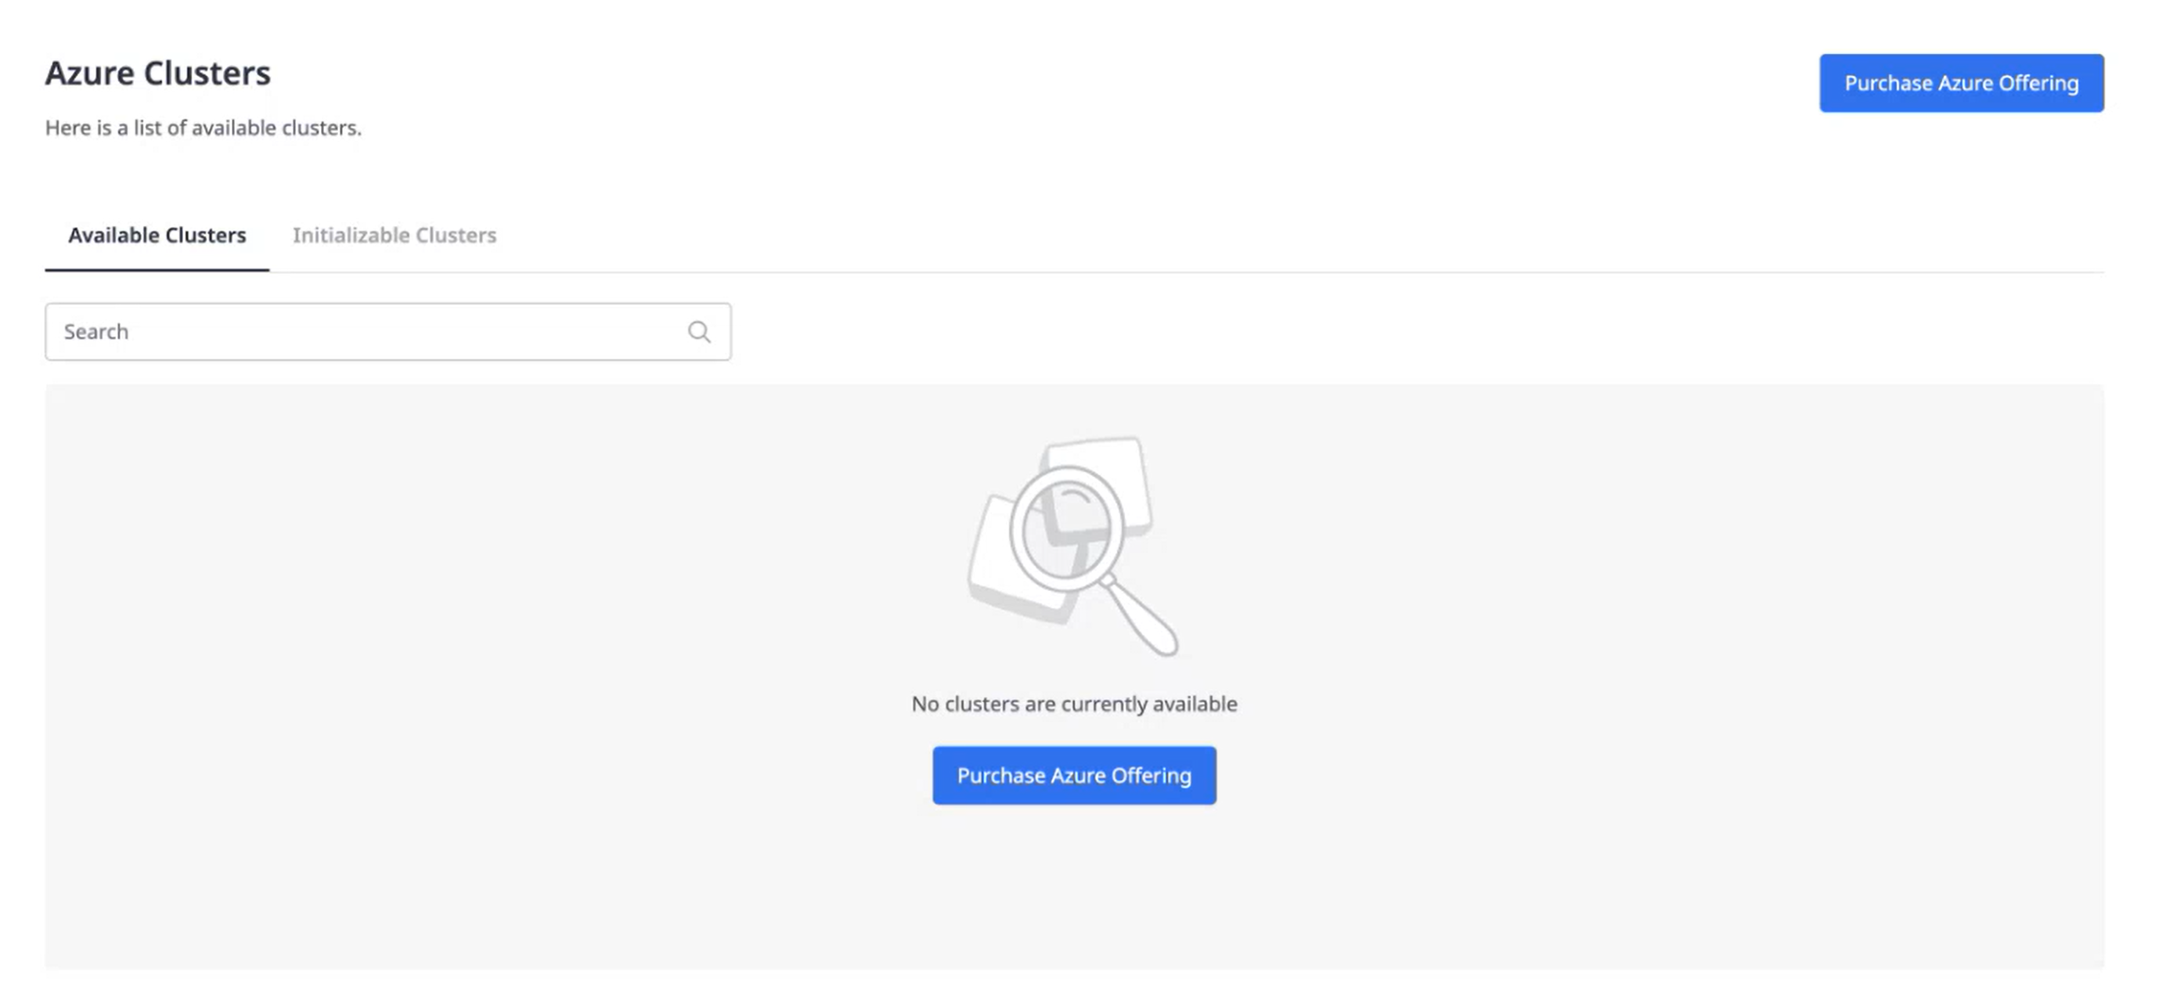
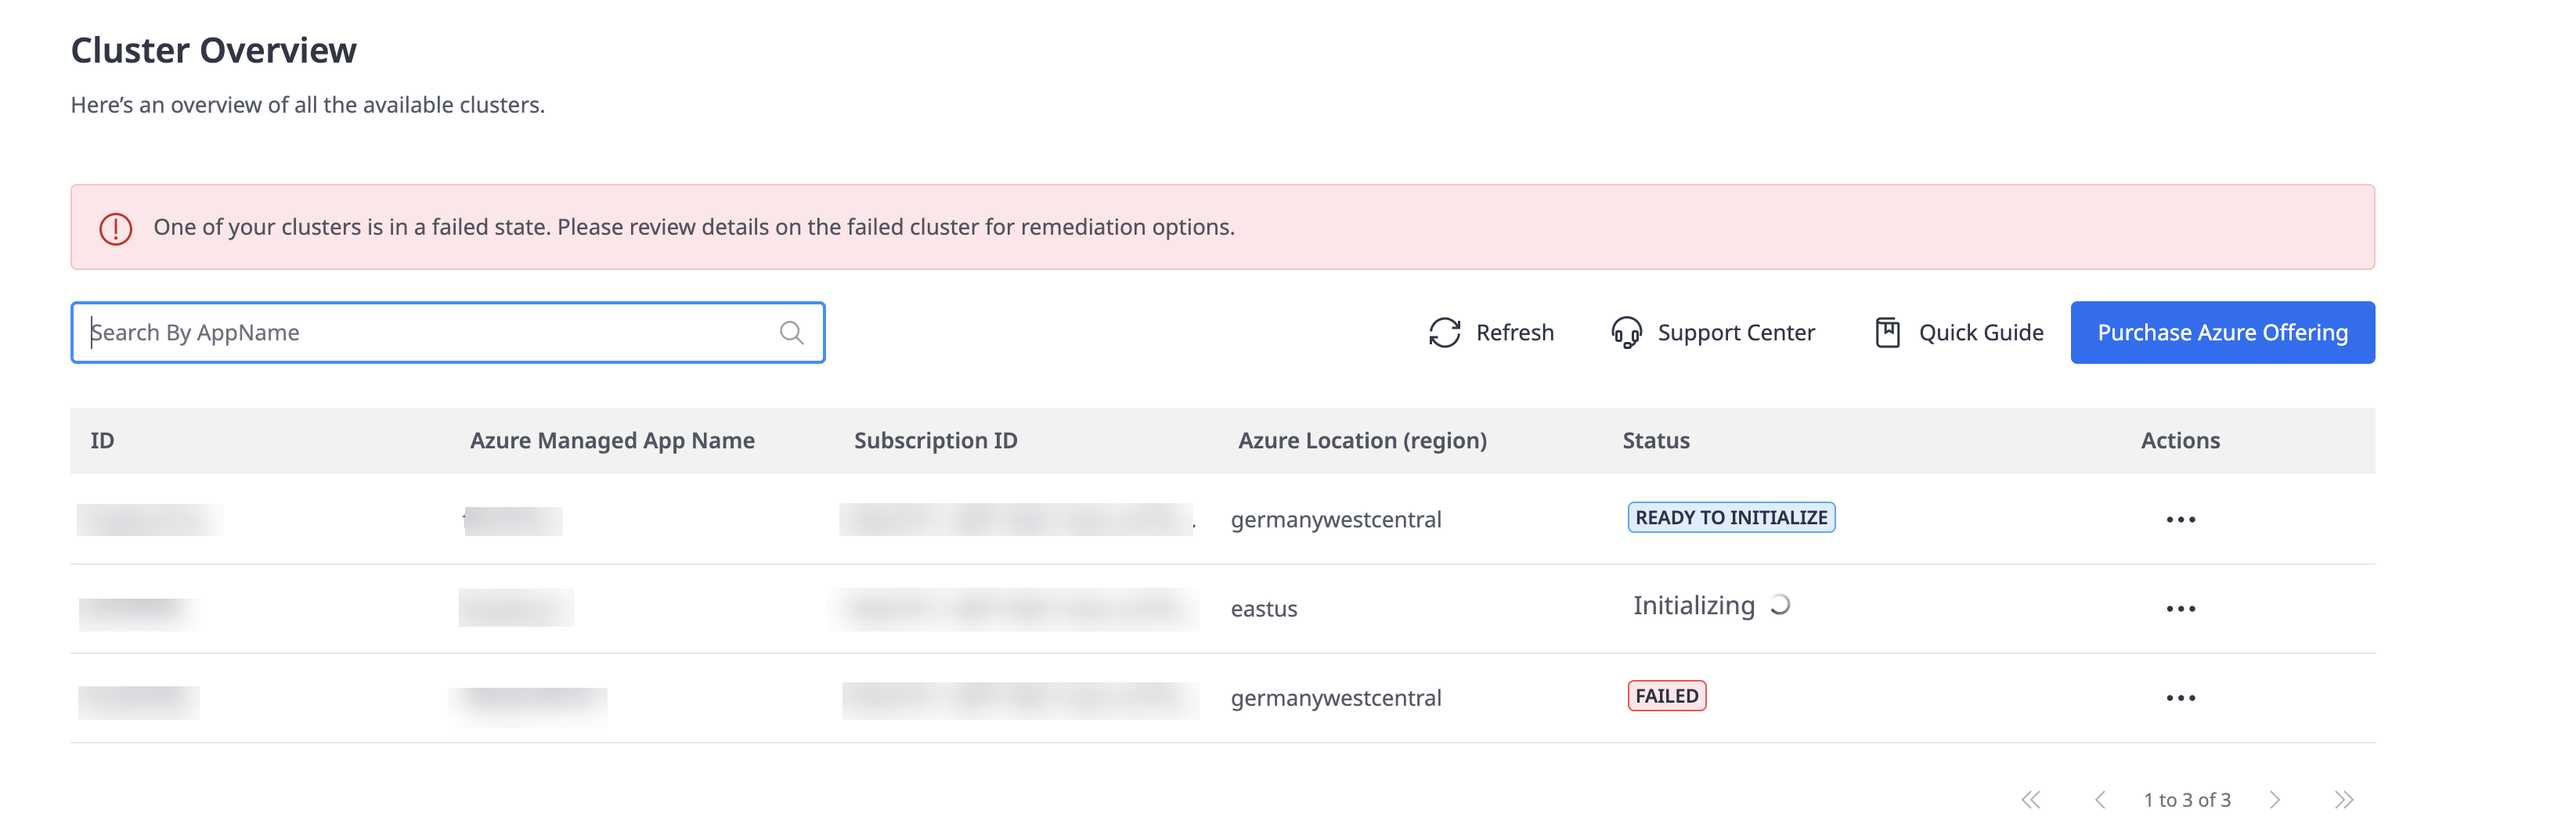
SME review

diff --git a/content/en/docs/deployment/mx-azure/mx-azure-installation.md b/content/en/docs/deployment/mx-azure/mx-azure-installation.md
@@ -17,6 +17,10 @@ Before starting the installation and implementation process, make sure that you 
 
 * Obtain and configure a Microsoft Azure account. For more information, refer to the the Microsoft Azure documentation.
 * Purchase the Mendix on Azure offering in the [Azure Marketplace](https://azuremarketplace.microsoft.com/).
+* Enable co-access permissions for the offering.
+
+{{< figure src="/attachments/deployment/mx-azure/coadmin-permission.png" class="no-border" >}}
+
 * Familiarize yourself with the [Private Cloud](https://docs.mendix.com/developerportal/deploy/private-cloud/) concepts.
 * Ensure that your Mendix Studio Pro is in version 10.10 or newer.
 * As an optional best practice, add multiple cluster manager to your clusters.
@@ -26,9 +30,9 @@ Before starting the installation and implementation process, make sure that you 
 To create a cluster for your Mendix on Azure app, perform the following steps:
 
 1. In the Mendix Portal, in Private Cloud Cluster Manager, click **Mendix on Azure**.
-2. Connect to your Azure account by clicking **Connect and Initialize**, and then logging in with the same account that you used to purchase the Mendix on Azure offering.
+2. Connect to your Azure account by clicking **Connect Azure Account**, and then logging in with the same account that you used to purchase the Mendix on Azure offering. If required, you can also purchase an Azure offering after you log in.
 
-    After you successfully connect the accounts, the Mendix Portal shows a list of available clusters (that is, any Azure clusters that you have already linked with Mendix) and initializable clusters (that is, any clusters that you have not yet linked with Mendix). For initialized clusters, means that the all the required resources are provisioned on the cluster. For uninitialized clusters, no resources are provisioned yet.
+    After you successfully connect the accounts, the Mendix Portal shows a list of available clusters (that is, any Azure clusters that you have already linked with Mendix), initializable clusters (that is, any clusters that you have not yet linked with Mendix), and clusters that failed to initialize for any reason. For initialized clusters, means that the all the required resources are provisioned on the cluster. For uninitialized clusters, no resources are provisioned yet.
 
     {{< figure src="/attachments/deployment/mx-azure/available-clusters.png" class="no-border" >}}
 
@@ -46,21 +50,35 @@ To create a cluster for your Mendix on Azure app, perform the following steps:
 
     The managed app that you created is now visible as a new initializable cluster.
 
-    {{< figure src="/attachments/deployment/mx-azure/initializable-clusters.png" class="no-border" >}}   
+    {{< figure src="/attachments/deployment/mx-azure/initializable-clusters" class="no-border" >}}
 
-7. Click **Initialize**. 
+7. In the **Actions** column, click the icon, and then select **Initialize**. 
 
     The preflight check launches to verify that the required resources can be registered in the cluster. Mendix apps are hosted with virtual images, so the preflight check determines whether the cluster contains the required type of virtual image. To view a list of the required resource providers, hover your cursor over the **Information** icon. If required, you can register any missing providers in the **Resource providers** section of the Microsoft Azure portal.
 
+    {{< figure src="/attachments/deployment/mx-azure/preflight-check" class="no-border" >}}
+
 8. After the preflight check completes, click **Next**.
 
-9. Select the **AKS Service Tier**.
+9. In the **Provision** screen, review the information in the **Advanced Settings** section, and adjust any settings as needed. Note that selecting higher service tiers will incur higher costs. The **Postgress Compute SKU** and **Postgress Storage Performance Tier for IOPS** cannot currently be adjusted.
 
-    You can choose any tier that suits your requirements. Higher tiers will incur higher costs.
+    {{% alert color="info" %}}If you plan to use [virtual network peering](#network-peering), you must set the **Load Balancer Type** to **Private (Internal)**.{{% /alert %}}
 
-10. Click **Initialize**.
+10. In the **Review & Initialize** screen, review the information and click **Initialize**.
 
-    The initialization process takes approximately 15 minutes. It creates a resource group in the managed app that you created in step 3 above. Once the cluster is initialized successfully, a corresponding cluster and namespace are created in the the Private Cloud portal. The namespace is also configured automatically, as described in [Standard Operator: Running the Tool](https://docs.mendix.com/developerportal/deploy/standard-operator/#running-the-tool). The cluster cannot be deleted from the Private Cloud portal or the Mendix on Azure portal. If you want to remove it, you must delete it in the Microsoft Azure portal.
+    The initialization process takes approximately 15 minutes. It creates a resource group in the managed app that you created in step 3 above. Once the cluster is initialized successfully, a corresponding cluster is created in the the Private Cloud portal. The namespace is also created and configured automatically, as described in [Standard Operator: Running the Tool](https://docs.mendix.com/developerportal/deploy/standard-operator/#running-the-tool). You cannot create additional namespaces for a Mendix on Azure cluster. You also cannot use APIs to create or modify the cluster.
+    
+    The cluster cannot be deleted from the Private Cloud portal or the Mendix on Azure portal. If you want to remove it, you must delete it in the Microsoft Azure portal.
+
+## Rerunning Failed Clusters
+
+If a cluster fails for any reason, its status in the Mendix Portal changes to **Failed**. To view more information about the issue, click the icon in the **Actions** column, and then select **Details**.
+
+{{< figure src="/attachments/deployment/mx-azure/failed-cluster" class="no-border" >}}
+
+To fix the issue, you can click **Rerun** to manually re-run the cluster. If a cluster still fails after a manual rerun, a support ticket is automatically opened with Mendix Support. For more information, see [Support Policy for Mendix on Azure: Automatic Support Tickets](/developerportal/deploy/mendix-on-azure/support/#tickets-automatic).
+
+{{% alert color="warning" %}}Do not initialize a cluster while it is in a Failed status.{{% /alert %}}
     
 ## Editing the Cluster in the Mendix on Azure Portal
 
@@ -84,7 +102,7 @@ The following diagram shows two managed resource groups. One of them contains th
 
 {{< figure src="/attachments/deployment/mx-azure/separate-access-groups.png" class="no-border" >}}
 
-#### Potential Solution 1: Virtual Network Peering
+#### Potential Solution 1: Virtual Network Peering {#network-peering}
 
 The following diagram shows one potential solution to the access issue. Bi-directional [virtual network peering](https://learn.microsoft.com/en-us/azure/virtual-network/virtual-network-peering-overview) has been configured between the two resource groups.
 

diff --git a/content/en/docs/deployment/mx-azure/mx-azure-support.md b/content/en/docs/deployment/mx-azure/mx-azure-support.md
@@ -11,7 +11,9 @@ weight: 30
 
 This document describes the technical support policies and limitations for Mendix on Azure, based on the shared responsibility model underlying the offering.
 
-## Shared Responsibility Model
+{{% alert color="info" %}}Before you begin, familiarize yourself with the general Mendix support policies, as outlined in [Mendix Support](/support/).{{% /alert %}}
+
+## Shared Responsibility Model for Mendix on Azure
 
 Under the shared responsibility model for Mendix on Azure deployments, Mendix, Microsoft, and customer organizations all have their own responsibilities in the deployment process and business-as-usual operations. Familiarize yourself with the responsibilities listed below:
 
@@ -97,7 +99,11 @@ Your tickets can have the following statuses:
 
 The status is updated based on the current status of the ticket in the Zendesk. To see the latest status of the ticket, click the **Refresh** button.
 
-### Automatic Support Tickets
+{{% alert color="info" %}}  
+If you delete a cluster, all support tickets opened for that cluster are also deleted.
+{{% /alert %}}
+
+### Automatic Support Tickets {#tickets-automatic}
 
 Mendix on Azure can also automatically create support tickets for you. If a cluster fails to initialize and rerunning it manually does not resolve the issue, a support request is automatically created in the Support Center. Mendix Support is notified about the issue through Zendesk. You can follow the link from the support ticket to Zendesk to view its status or add additional comments.
 
@@ -150,3 +156,4 @@ The solution is being benchmarked against SOC2 Azure Policy Compliance controls.
 * Mendix on Azure only supports hosting apps on Mendix versions 10.10 or later. Any app on an earlier version will fail to deploy successfully.
 * Due to the managed nature of this product, not all Private Cloud APIs are available to the customer. Refer to the Build and Deploy API documentation to find out which API calls are out of scope for Mendix on Azure.
 * Currently, even after a cluster manager is deleted from the Private Cloud portal for a specific cluster, users can still access the cluster in the Mendix on Azure portal.
+* Because Mendix on Azure is directly dependent on Mendix for Private Cloud, issues that affect the Private Cloud may also affect Mendix on Azure deployments. For example, if the Private Cloud is down, it is not possible to create new Mendix on Azure clusters.

diff --git a/content/en/docs/support/_index.md b/content/en/docs/support/_index.md
@@ -185,6 +185,10 @@ Mendix Support does not have access to app health, logs, graphs and monitoring. 
 
 {{< figure src="/attachments/support/private-cloud.png"   width="75%"  class="no-border" >}}
 
+### Mendix on Azure
+
+[Mendix on Azure](/developerportal/deploy/mendix-on-azure/) is a deployment option that makes use of some of the features of Mendix for Private Cloud in an opinionated way. For detailed information about the support policy in place for Mendix on Azure, see [Support Policy for Mendix on Azure](/developerportal/deploy/mendix-on-azure/support/).
+
 ### Private Mendix Platform
 
 Private Mendix Platform provides a platform experience in on-premises or (virtual) private cloud environments. It is dependent on Mendix for Private Cloud and Kubernetes, and integrates with tooling in the customer's landscape. Please refer to [Private Mendix Platform](/private-mendix-platform/) documentation for [prerequisites](/private-mendix-platform-prerequisites/) to install the platform and set up [configurations](/private-mendix-platform-configuration/), as well as [Mendix for Private Cloud](/developerportal/deploy/private-cloud/) documentation for [supported environments](/developerportal/deploy/private-cloud-supported-environments/). 

diff --git a/content/en/docs/deployment/_index.md b/content/en/docs/deployment/_index.md
@@ -82,6 +82,12 @@ The Docker buildpack is available at [Mendix Docker Buildpack](https://github.co
 
 Deploying to Azure is possible from the [Azure Marketplace](https://azuremarketplace.microsoft.com/en-us/marketplace/apps/mendix.mendix-pro).
 
+### Mendix on Azure
+
+Mendix on Azure is a deployment option that makes use of some of the features of Mendix for Private Cloud in an opinionated way. For more information, see [Mendix on Azure](/developerportal/deploy/mendix-on-azure/).
+
+{{% alert color="info" %}} This feature is currently available to participating customers. For more information, contact your Customer Success Manager. {{% /alert %}}
+
 ## On-Premises
 
 To learn how to deploy your Mendix application on premises, see [How to Deploy Mendix on Microsoft Windows](/developerportal/deploy/deploy-mendix-on-microsoft-windows/) and [Unix-Like Deployment](/developerportal/deploy/unix-like/).
